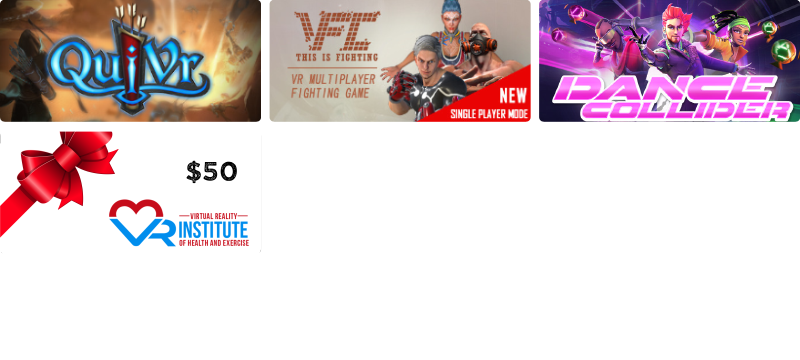
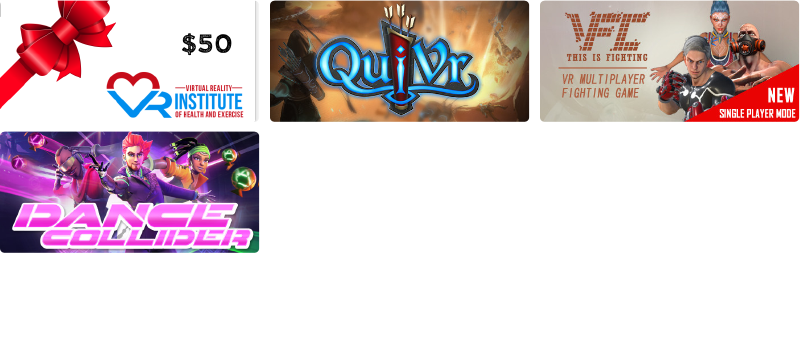
Add all prize pack images

diff --git a/client/src/js/controllers/prizeHelpers.js b/client/src/js/controllers/prizeHelpers.js
@@ -7,7 +7,13 @@ import bsmg from '../../images/logo-banner.png'
 
 // Prize Packs
 import blank from '../../images/prize-packs/blank.png'
+import hundoDollar1 from '../../images/prize-packs/prizepack-100-dollar-1.png'
+import hundoDollar2 from '../../images/prize-packs/prizepack-100-dollar-2.png'
+import chefs from '../../images/prize-packs/prizepack-chefs.png'
+import holoDance from '../../images/prize-packs/prizepack-holodance.png'
+import hoodie1 from '../../images/prize-packs/prizepack-hoodie-1.png'
 import proRegular from '../../images/prize-packs/prizepack-pro-regular.png'
+import proWireless from '../../images/prize-packs/prizepack-pro-wireless.png'
 
 /**
  * @param {string} prize Price Image
@@ -30,8 +36,20 @@ export const prizeToImage = prize => {
 
 export const packToImage = pack => {
   switch (pack) {
+    case '100-dollar-1':
+      return hundoDollar1
+    case '100-dollar-2':
+      return hundoDollar2
+    case 'chefs':
+      return chefs
+    case 'holodance':
+      return holoDance
+    case 'hoodie-1':
+      return hoodie1
     case 'pro-regular':
       return proRegular
+    case 'pro-wireless':
+      return proWireless
     default:
       return blank
   }
